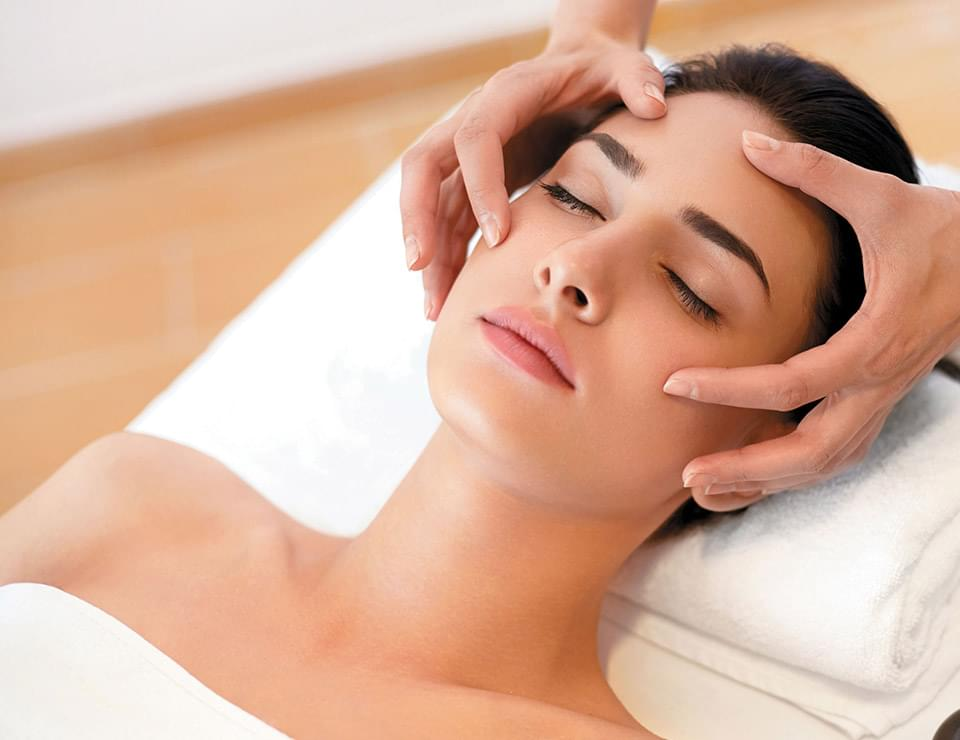
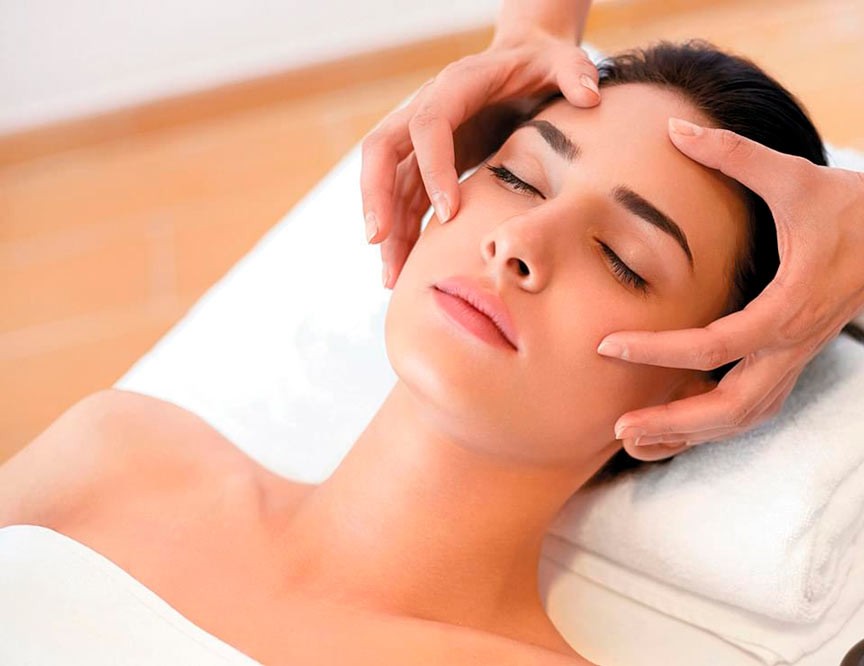
image-optimization

diff --git a/index.html b/index.html
@@ -674,7 +674,7 @@
 					</div>
 					<div class="service__container">
 						<div class="service__card">
-							<img src="./images/services/services (18).jpg" alt="" class="service__img">
+							<img src="./images/services/services-(18).jpg" alt="" class="service__img">
 							<div class="service__content">
 								<h1 class="service__title">Классический массаж</h1>
 								<hr class="divider_30_2 main_bg_color " id="service-divider">
@@ -688,7 +688,7 @@
 							</div>
 						</div>
 						<div class="service__card">
-							<img src="./images/services/services (19).jpg" alt="" class="service__img">
+							<img src="./images/services/services-(19).jpg" alt="" class="service__img">
 							<div class="service__content">
 								<h2 class="service__title">Лечебный массаж</h2>
 								<hr class="divider_30_2 main_bg_color " id="service-divider">
@@ -701,7 +701,7 @@
 							</div>
 						</div>
 						<div class="service__card">
-							<img src="./images/services/services (4).jpg" alt="" class="service__img">
+							<img src="./images/services/services-(4).jpg" alt="" class="service__img">
 							<div class="service__content">
 								<h2 class="service__title">Детский массаж</h2>
 								<hr class="divider_30_2 main_bg_color " id="service-divider">
@@ -715,7 +715,7 @@
 							</div>
 						</div>
 						<div class="service__card">
-							<img src="./images/services/services (1).jpg" alt="" class="service__img">
+							<img src="./images/services/services-(1).jpg" alt="" class="service__img">
 							<div class="service__content">
 								<h1 class="service__title">Лимфодренажный <br /> массаж</h1>
 								<hr class="divider_30_2 main_bg_color " id="service-divider">
@@ -729,7 +729,7 @@
 							</div>
 						</div>
 						<div class="service__card">
-							<img src="./images/services/services (2).jpg" alt="" class="service__img">
+							<img src="./images/services/services-(2).jpg" alt="" class="service__img">
 							<div class="service__content">
 								<h2 class="service__title">Стоун-терапия</h2>
 								<hr class="divider_30_2 main_bg_color " id="service-divider">
@@ -741,7 +741,7 @@
 							</div>
 						</div>
 						<div class="service__card">
-							<img src="./images/services/services (20).jpg" alt="" class="service__img">
+							<img src="./images/services/services-(20).jpg" alt="" class="service__img">
 							<div class="service__content">
 								<h2 class="service__title">Хиромассаж</h2>
 								<hr class="divider_30_2 main_bg_color " id="service-divider">
@@ -754,7 +754,7 @@
 							</div>
 						</div>
 						<div class="service__card">
-							<img src="./images/services/services (3).jpg" alt="" class="service__img">
+							<img src="./images/services/services-(3).jpg" alt="" class="service__img">
 							<div class="service__content">
 								<h1 class="service__title">Спортивный массаж</h1>
 								<hr class="divider_30_2 main_bg_color " id="service-divider">
@@ -768,7 +768,7 @@
 							</div>
 						</div>
 						<div class="service__card">
-							<img src="./images/services/services (5).jpg" alt="" class="service__img">
+							<img src="./images/services/services-(5).jpg" alt="" class="service__img">
 							<div class="service__content">
 								<h2 class="service__title">Медовый массаж</h2>
 								<hr class="divider_30_2 main_bg_color " id="service-divider">
@@ -780,7 +780,7 @@
 							</div>
 						</div>
 						<div class="service__card">
-							<img src="./images/services/services (6).jpg" alt="" class="service__img">
+							<img src="./images/services/services-(6).jpg" alt="" class="service__img">
 							<div class="service__content">
 								<h2 class="service__title">Антицеллюлитный <br /> массаж</h2>
 								<hr class="divider_30_2 main_bg_color " id="service-divider">
@@ -793,7 +793,7 @@
 							</div>
 						</div>
 						<div class="service__card">
-							<img src="./images/services/services (7).jpg" alt="" class="service__img">
+							<img src="./images/services/services-(7).jpg" alt="" class="service__img">
 							<div class="service__content">
 								<h2 class="service__title">Вакуумный массаж</h2>
 								<hr class="divider_30_2 main_bg_color " id="service-divider">
@@ -806,7 +806,7 @@
 							</div>
 						</div>
 						<div class="service__card">
-							<img src="./images/services/services (8).jpg" alt="" class="service__img">
+							<img src="./images/services/services-(8).jpg" alt="" class="service__img">
 							<div class="service__content">
 								<h2 class="service__title">Массаж лица</h2>
 								<hr class="divider_30_2 main_bg_color " id="service-divider">
@@ -819,7 +819,7 @@
 							</div>
 						</div>
 						<div class="service__card">
-							<img src="./images/services/services (9).jpg" alt="" class="service__img">
+							<img src="./images/services/services-(9).jpg" alt="" class="service__img">
 							<div class="service__content">
 								<h2 class="service__title">Хиджама в косметологии</h2>
 								<hr class="divider_30_2 main_bg_color " id="service-divider">
@@ -831,7 +831,7 @@
 							</div>
 						</div>
 						<div class="service__card">
-							<img src="./images/services/services (10).jpg" alt="" class="service__img">
+							<img src="./images/services/services-(10).jpg" alt="" class="service__img">
 							<div class="service__content">
 								<h2 class="service__title">Хиджама или кровопускание</h2>
 								<hr class="divider_30_2 main_bg_color " id="service-divider">
@@ -843,7 +843,7 @@
 							</div>
 						</div>
 						<div class="service__card">
-							<img src="./images/services/services (11).jpg" alt="" class="service__img">
+							<img src="./images/services/services-(11).jpg" alt="" class="service__img">
 							<div class="service__content">
 								<h2 class="service__title">Лечебная физиическая культура</h2>
 								<hr class="divider_30_2 main_bg_color " id="service-divider">
@@ -855,7 +855,7 @@
 							</div>
 						</div>
 						<div class="service__card">
-							<img src="./images/services/services (12).jpg" alt="" class="service__img">
+							<img src="./images/services/services-(12).jpg" alt="" class="service__img">
 							<div class="service__content">
 								<h2 class="service__title">Парафинотерапия</h2>
 								<hr class="divider_30_2 main_bg_color " id="service-divider">
@@ -866,7 +866,7 @@
 							</div>
 						</div>
 						<div class="service__card">
-							<img src="./images/services/services (13).jpg" alt="" class="service__img">
+							<img src="./images/services/services-(13).jpg" alt="" class="service__img">
 							<div class="service__content">
 								<h2 class="service__title">Электростимуляция</h2>
 								<hr class="divider_30_2 main_bg_color " id="service-divider">
@@ -878,7 +878,7 @@
 							</div>
 						</div>
 						<div class="service__card">
-							<img src="./images/services/services (14).jpg" alt="" class="service__img">
+							<img src="./images/services/services-(14).jpg" alt="" class="service__img">
 							<div class="service__content">
 								<h2 class="service__title">Висцеральный массаж</h2>
 								<hr class="divider_30_2 main_bg_color " id="service-divider">
@@ -893,7 +893,7 @@
 							</div>
 						</div>
 						<div class="service__card">
-							<img src="./images/services/services (15).jpg" alt="" class="service__img">
+							<img src="./images/services/services-(15).jpg" alt="" class="service__img">
 							<div class="service__content">
 								<h2 class="service__title">Магнитотерапия</h2>
 								<hr class="divider_30_2 main_bg_color " id="service-divider">
@@ -907,7 +907,7 @@
 							</div>
 						</div>
 						<div class="service__card">
-							<img src="./images/services/services (16).jpg" alt="" class="service__img">
+							<img src="./images/services/services-(16).jpg" alt="" class="service__img">
 							<div class="service__content">
 								<h2 class="service__title">Иглоукалывание</h2>
 								<hr class="divider_30_2 main_bg_color " id="service-divider">
@@ -921,7 +921,7 @@
 							</div>
 						</div>
 						<div class="service__card">
-							<img src="./images/services/services (17).jpg" alt="" class="service__img">
+							<img src="./images/services/services-(17).jpg" alt="" class="service__img">
 							<div class="service__content">
 								<h2 class="service__title">Электростимуляция</h2>
 								<hr class="divider_30_2 main_bg_color " id="service-divider">
@@ -936,7 +936,7 @@
 				</div>
 			</section>
 
-			<section id="seminar" class="ls section_padding_top_100 section_padding_bottom_75">
+			<!-- <section id="seminar" class="ls section_padding_top_100 section_padding_bottom_75">
 				<div class="container">
 					<div class="row">
 						<div class="col-sm-12 text-center">
@@ -1198,7 +1198,7 @@
 						</div>
 					</div>
 				</div>
-			</section>
+			</section> -->
 
 			<section class="ls page_portfolio columns_padding_0 columns_margin_0">
 				<div class="container-fluid">
@@ -1365,7 +1365,7 @@
 						</div>
 					</div>
 					<br>
-					<review-lab data-widgetid="62e93269edaba85c28847ab4"></review-lab>
+					<review-lab data-widgetid="62fa13f6edaba8e84846b01b"></review-lab>
 					<script src="https://app.reviewlab.ru/widget/index-es2015.js"></script>
 					<script src="https://app.reviewlab.ru/widget/index-es5.js" defer></script>
 

diff --git a/css/adjustment.css b/css/adjustment.css
@@ -79,7 +79,7 @@ a {
     width: 100%;
     height: 42em;
     margin-bottom: 3px;
-    background-color: #fafafa;
+    background-color: #fbfbfb;
     border-radius: 7px 7px;
     transition: transform .3s ease-in, box-shadow .3s ease-in
         /*, border-bottom .2s ease-in*/
@@ -203,4 +203,8 @@ review-lab {
     .service__desc {
         font-size: 1.5rem;
     }
+}
+
+.eapps-widget:hover .eapps-widget-toolbar {
+    opacity: 0;
 }
